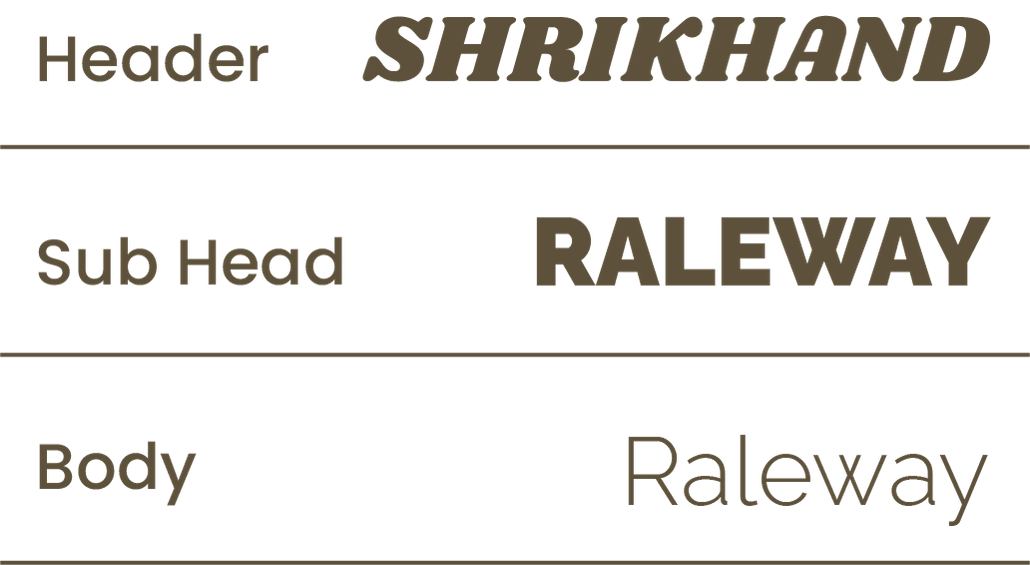
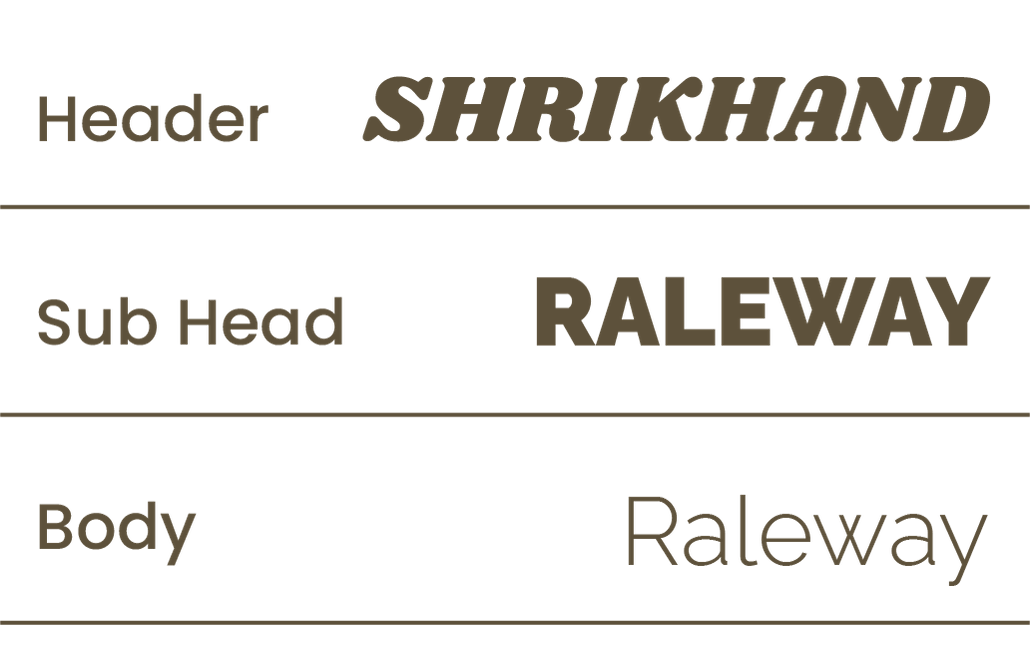
mobile spacing

diff --git a/project-1-milianos.html b/project-1-milianos.html
@@ -161,11 +161,11 @@
             />
           </figure>
 
-          <figure class="project-image no-border">
+          <figure class="project-image">
             <img
               src="assets/milianos-restaurant-rgd-award-winner-honorable mention/milianos-brand-guide/milianos-brand-guide-typography.png"
               width="1030"
-              height="565"
+              height="650"
               loading="lazy"
               alt="milianos award winning project folded food menu back"
             />
@@ -236,7 +236,6 @@
               loading="lazy"
               alt="milianos award winning project folded food menu front"
             />
-            <figcaption class="project-caption">Food cover front</figcaption>
           </figure>
 
           <figure class="project-image">
@@ -247,9 +246,9 @@
               loading="lazy"
               alt="milianos award winning project folded food menu back"
             />
-            <figcaption class="project-caption">food cover back</figcaption>
           </figure>
         </div>
+
         <!-- closes the previous section-container -->
 
         <!-- Menu mockups section -->

diff --git a/project-3-zokusha.html b/project-3-zokusha.html
@@ -156,7 +156,7 @@
         </div>
         <div class="section-container">
           <div class="section-item image-col">
-            <div class="project-image-pair">
+            <div class="project-image-container">
               <figure class="project-image">
                 <img
                   src="assets/zokusha-workshop/zokusha-workshop-sketches-one.jpg"
@@ -196,7 +196,7 @@
           numerous options, thinking outside of the box and pushing boundaries,
           while still maintaining a visual cohesion with the rest of the brand.
         </p>
-        <div class="project-image-pair">
+        <div class="project-image-container">
           <figure class="project-image">
             <img
               src="assets/zokusha-workshop/zokusha-workshop-sketches-three.jpeg"

diff --git a/styles/style.css b/styles/style.css
@@ -3112,7 +3112,7 @@ body.more-of-my-work .project-wrapper-fullwidth .project-details {
 
 .project-description:last-child,
 .project-description-one-column:last-child {
-  margin-bottom: 0;
+  margin-bottom: 1rem;
 }
 
 @media (min-width: 1400px) {
@@ -3632,6 +3632,16 @@ html {
     padding-right: 16rem; /* spacing inside the column */
     box-sizing: border-box; /* ensures padding doesn't expand the column */
   }
+}
+
+@media (max-width: 1000px) {
+  .project-image-container {
+    gap: 1rem !important; /* override desktop gap and add vertical spacing */
+  }
+}
+
+.project-description-subtitle:not(:first-child) {
+  margin-top: 60px;
 }
 
 /*
